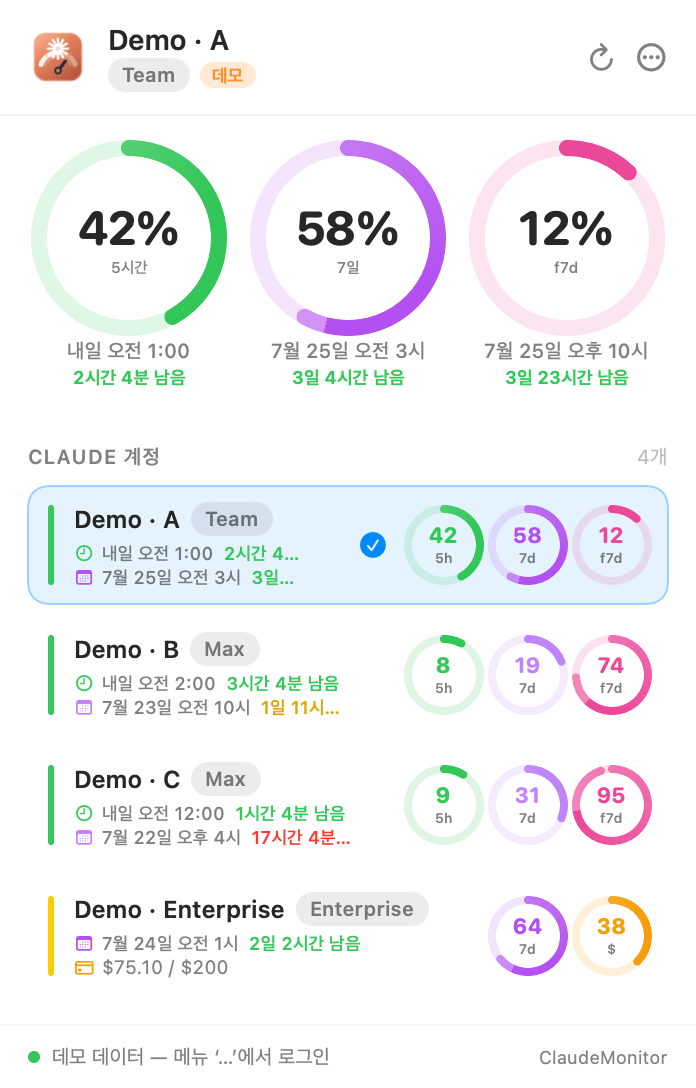
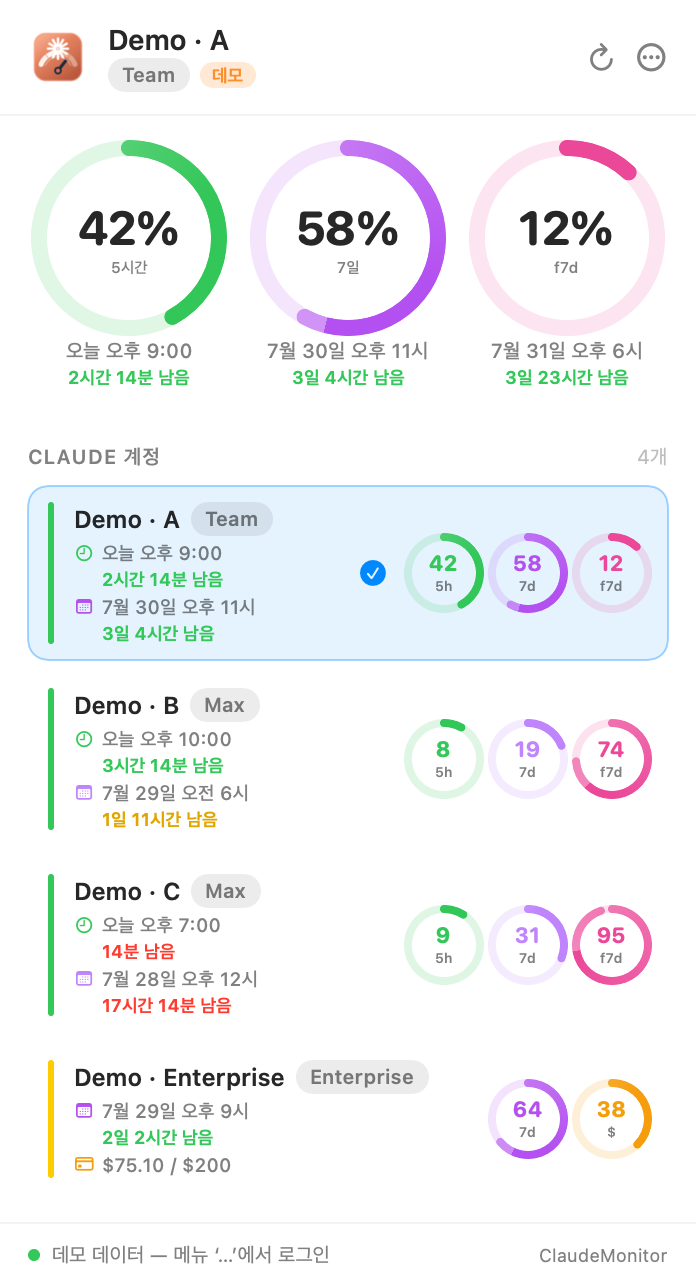
feat: make per-model weekly (Fable) usage optional, and stop truncating reset info in account rows
Two things made the popover hide the number people actually open it for.

The Fable ring (f7d) is always fetched and always drawn, even when it sits
at 0% — a third ring that eats the account row's width. It is now a setting
(`showModelLimits`, default on) with toggles in Settings and in the popover
`…` menu. Filtering lives in one pure function, `applyDisplayOptions`, that
every read path goes through (hero rings, account rows, the menu-bar image,
and the snapshot handed to UsageNotifier), so a hidden limit stops notifying
too. The cached response keeps its models, so switching it back on needs no
refetch.

Account rows printed "<reset time>  <time left>" on one line, which with
three rings truncated to "8월 1일 오후 7시 5…" — the remaining time, the
part that matters, was the part that got cut. The two now sit on separate
lines, and the row's left indicator stretches to the row height instead of
being pinned at 40 pt.

Adds DisplayOptionsTests for the filter, `CTM_MODELS=0|1` to force either
state in the preview renderer, and regenerates the README screenshots.

diff --git a/Sources/ClaudeMonitor/AppState.swift b/Sources/ClaudeMonitor/AppState.swift
@@ -50,6 +50,15 @@ final class AppState: ObservableObject {
         didSet { UserDefaults.standard.set(notificationThreshold, forKey: Keys.notificationThreshold) }
     }
 
+    /// 모델별 주간 한도(Fable 등) 표시 여부. 끄면 히어로 링·계정 행·알림에서 모두 빠진다.
+    /// (같은 usage 응답에 딸려오는 값이라 껐다 켜도 재조회가 필요 없다 — 캐시에는 그대로 남긴다)
+    @Published var showModelLimits: Bool {
+        didSet {
+            UserDefaults.standard.set(showModelLimits, forKey: Keys.showModelLimits)
+            rebuildMenuBarImage()
+        }
+    }
+
     /// 세션이 만료된 계정 (행에서 바로 다시 로그인할 수 있게 표시)
     @Published var expiredAccounts: Set<UUID> = []
 
@@ -87,6 +96,7 @@ final class AppState: ObservableObject {
         static let usageCachedAt = "usageCachedAt.v1"
         static let notificationsEnabled = "notificationsEnabled.v1"
         static let notificationThreshold = "notificationThreshold.v1"
+        static let showModelLimits = "showModelLimits.v1"
     }
 
     /// 팝오버를 열었을 때 이 간격 안이면 새로고침을 건너뛴다(연속 오픈으로 API 를 두드리지 않게).
@@ -104,17 +114,31 @@ final class AppState: ObservableObject {
     /// 활성 계정의 사용량 (개발 빌드의 데모 모드면 샘플)
     var activeUsage: AccountUsage? {
         #if DEBUG
-        if demoMode { return DemoData.usage(for: activeAccount?.id) }
+        if demoMode { return displayed(DemoData.usage(for: activeAccount?.id)) }
         #endif
         guard let id = activeAccount?.id else { return nil }
-        return usage[id]
+        return displayed(usage[id])
     }
 
     func usage(for account: Account) -> AccountUsage? {
         #if DEBUG
-        if demoMode { return DemoData.usage(for: account.id) }
+        if demoMode { return displayed(DemoData.usage(for: account.id)) }
         #endif
-        return usage[account.id]
+        return displayed(usage[account.id])
+    }
+
+    /// 표시 옵션을 반영한 사용량. UI 가 읽는 경로(히어로 링/계정 행/메뉴바)는 모두 여기를 거친다.
+    private func displayed(_ u: AccountUsage?) -> AccountUsage? {
+        Self.applyDisplayOptions(u, showModelLimits: showModelLimits)
+    }
+
+    /// 표시 옵션 적용(순수 함수 — 테스트에서 직접 검증한다).
+    /// `showModelLimits == false` 면 모델별 주간 한도(Fable 등)를 빼고 돌려준다.
+    nonisolated static func applyDisplayOptions(_ usage: AccountUsage?, showModelLimits: Bool) -> AccountUsage? {
+        guard let usage else { return nil }
+        guard !showModelLimits, !usage.models.isEmpty else { return usage }
+        return AccountUsage(fiveHour: usage.fiveHour, sevenDay: usage.sevenDay,
+                            models: [], extra: usage.extra)
     }
 
     // MARK: - Init
@@ -125,6 +149,8 @@ final class AppState: ObservableObject {
         self.notificationsEnabled = UserDefaults.standard.bool(forKey: Keys.notificationsEnabled)
         let threshold = UserDefaults.standard.integer(forKey: Keys.notificationThreshold)
         self.notificationThreshold = threshold == 0 ? 90 : threshold
+        // 기본값은 표시(기존 동작 유지). bool(forKey:) 는 키가 없을 때도 false 라 object 로 구분한다.
+        self.showModelLimits = (UserDefaults.standard.object(forKey: Keys.showModelLimits) as? Bool) ?? true
         let langRaw = UserDefaults.standard.string(forKey: Keys.language)
         let lang = langRaw.flatMap { AppLanguage(rawValue: $0) } ?? .system
         self.language = lang
@@ -342,7 +368,9 @@ final class AppState: ObservableObject {
         lastUpdated = Date()
         saveUsageCache()
         if notificationsEnabled {
-            UsageNotifier.evaluate(accounts: accounts, usage: usage,
+            // 숨긴 한도로는 알리지 않는다 (UI 에 없는 값으로 알림만 뜨면 영문을 알 수 없다).
+            let visible = usage.compactMapValues { displayed($0) }
+            UsageNotifier.evaluate(accounts: accounts, usage: visible,
                                    threshold: Double(notificationThreshold))
         }
         rebuildMenuBarImage()

diff --git a/Sources/ClaudeMonitor/Views/PopoverView.swift b/Sources/ClaudeMonitor/Views/PopoverView.swift
@@ -73,6 +73,10 @@ struct PopoverView: View {
                 Menu {
                     Button(L.s("Claude 계정 추가/로그인…", "Add Claude account / Log in…")) { WindowManager.shared.openLogin() }
                     Button(L.s("설정…", "Settings…")) { WindowManager.shared.openSettings() }
+                    Divider()
+                    // 설정을 열지 않고도 f7d 링을 켜고 끌 수 있게 (좁은 팝오버에서 자주 쓰는 옵션)
+                    Toggle(L.s("모델별 주간 사용량 (Fable)", "Per-model weekly usage (Fable)"),
+                           isOn: $state.showModelLimits)
                     #if DEBUG
                     Divider()
                     Toggle(L.s("데모 모드", "Demo mode"), isOn: Binding(
@@ -215,10 +219,11 @@ struct AccountRow: View {
 
     var body: some View {
         HStack(spacing: 10) {
-            // 좌측 컬러 인디케이터
+            // 좌측 컬러 인디케이터 (보조 줄 수에 따라 행 높이가 달라지므로 행 높이에 맞춰 늘린다)
             RoundedRectangle(cornerRadius: 2)
                 .fill(indicatorColor)
-                .frame(width: 3, height: 40)
+                .frame(width: 3)
+                .frame(minHeight: 40, maxHeight: .infinity)
 
             VStack(alignment: .leading, spacing: 3) {
                 HStack(spacing: 5) {
@@ -265,7 +270,7 @@ struct AccountRow: View {
         } else if usage == nil {
             Text(L.s("불러오는 중…", "Loading…")).font(.system(size: 10)).foregroundStyle(.secondary)
         } else {
-            VStack(alignment: .leading, spacing: 1) {
+            VStack(alignment: .leading, spacing: 3) {
                 if let five = usage?.fiveHour, let reset = five.resetsAt {
                     resetLine(icon: "clock", color: Theme.fiveHourColor(five.percentage),
                               text: TimeFmt.resetShort(reset), resetsAt: reset, longCycle: false)
@@ -281,27 +286,31 @@ struct AccountRow: View {
         }
     }
 
-    /// 보조 줄 한 항목: 아이콘 + 리셋 시각(회색) + 남은 시간(주기별 색상 규칙)
+    /// 보조 줄 한 항목: 아이콘 + 리셋 시각(회색) / 남은 시간(주기별 색상 규칙)
+    ///
+    /// 리셋 시각과 남은 시간을 한 줄에 붙이면 링 3개(5h/7d/f7d)가 폭을 먹는 좁은 행에서
+    /// 뒤쪽이 "…" 로 잘려 정작 중요한 "몇 시간 남음"이 안 보였다 → 줄을 나눠 둘 다 보이게 한다.
     @ViewBuilder
     private func resetLine(icon: String, color: Color, text: String, resetsAt: Date?, longCycle: Bool = false) -> some View {
-        HStack(spacing: 4) {
+        HStack(alignment: .top, spacing: 4) {
             Image(systemName: icon)
                 .font(.system(size: 8, weight: .semibold))
                 .foregroundStyle(color)
                 .frame(width: 10)
-            if let resetsAt {
-                TimelineView(.periodic(from: .now, by: 30)) { ctx in
-                    (Text(text + "  ").foregroundColor(.secondary)
-                        + Text(TimeFmt.remainingCompact(resetsAt, now: ctx.date) + L.s(" 남음", " left"))
-                            .foregroundColor(TimeFmt.remainingColor(resetsAt, longCycle: longCycle, now: ctx.date)))
-                        .font(.system(size: 9, weight: .medium))
-                        .lineLimit(1)
-                }
-            } else {
+                .padding(.top, 1)
+            VStack(alignment: .leading, spacing: 1) {
                 Text(text)
-                    .font(.system(size: 9.5))
+                    .font(.system(size: 9.5, weight: .medium))
                     .foregroundStyle(.secondary)
                     .lineLimit(1)
+                if let resetsAt {
+                    TimelineView(.periodic(from: .now, by: 30)) { ctx in
+                        Text(TimeFmt.remaining(resetsAt, now: ctx.date))
+                            .font(.system(size: 9, weight: .semibold))
+                            .foregroundStyle(TimeFmt.remainingColor(resetsAt, longCycle: longCycle, now: ctx.date))
+                            .lineLimit(1)
+                    }
+                }
             }
         }
     }

diff --git a/Tests/ClaudeMonitorTests/DisplayOptionsTests.swift b/Tests/ClaudeMonitorTests/DisplayOptionsTests.swift
@@ -1,0 +1,57 @@
+//
+//  DisplayOptionsTests.swift
+//  ClaudeMonitorTests
+//
+//  표시 옵션(모델별 주간 한도 on/off) 적용 규칙 검증.
+//  히어로 링·계정 행·메뉴바·알림이 모두 AppState.applyDisplayOptions 를 거치므로,
+//  이 순수 함수만 검증하면 표시 경로 전체가 함께 검증된다.
+//
+
+import XCTest
+@testable import ClaudeMonitor
+
+final class DisplayOptionsTests: XCTestCase {
+
+    private func sample(models: [ModelLimit]) -> AccountUsage {
+        AccountUsage(
+            fiveHour: LimitUsage(percentage: 50, resetsAt: Date(timeIntervalSince1970: 1_700_000_000)),
+            sevenDay: LimitUsage(percentage: 7, resetsAt: Date(timeIntervalSince1970: 1_700_500_000)),
+            models: models,
+            extra: ExtraUsage(enabled: true, used: 44.62, limit: 75, currencyCode: "USD"))
+    }
+
+    private var fable: ModelLimit {
+        ModelLimit(name: "Fable",
+                   usage: LimitUsage(percentage: 12, resetsAt: Date(timeIntervalSince1970: 1_700_900_000)))
+    }
+
+    /// 켜져 있으면 응답 그대로 (껐다 켜도 재조회 없이 같은 값이 돌아와야 한다)
+    func testKeepsModelsWhenEnabled() throws {
+        let usage = sample(models: [fable])
+        let out = try XCTUnwrap(AppState.applyDisplayOptions(usage, showModelLimits: true))
+        XCTAssertEqual(out, usage)
+        XCTAssertEqual(out.models.count, 1)
+    }
+
+    /// 꺼져 있으면 모델별 한도만 빠지고 5시간/7일/추가 사용량은 그대로다
+    func testStripsModelsWhenDisabled() throws {
+        let usage = sample(models: [fable])
+        let out = try XCTUnwrap(AppState.applyDisplayOptions(usage, showModelLimits: false))
+        XCTAssertTrue(out.models.isEmpty)
+        XCTAssertEqual(out.fiveHour, usage.fiveHour)
+        XCTAssertEqual(out.sevenDay, usage.sevenDay)
+        XCTAssertEqual(out.extra, usage.extra)
+    }
+
+    /// 모델 한도가 없으면 어느 설정에서도 원본 그대로
+    func testNoModelsIsUnchanged() throws {
+        let usage = sample(models: [])
+        XCTAssertEqual(try XCTUnwrap(AppState.applyDisplayOptions(usage, showModelLimits: false)), usage)
+        XCTAssertEqual(try XCTUnwrap(AppState.applyDisplayOptions(usage, showModelLimits: true)), usage)
+    }
+
+    func testNilStaysNil() {
+        XCTAssertNil(AppState.applyDisplayOptions(nil, showModelLimits: false))
+        XCTAssertNil(AppState.applyDisplayOptions(nil, showModelLimits: true))
+    }
+}

diff --git a/Sources/ClaudeMonitor/Views/SettingsView.swift b/Sources/ClaudeMonitor/Views/SettingsView.swift
@@ -83,6 +83,15 @@ struct SettingsView: View {
                     if let notificationError {
                         Text(notificationError).font(.caption).foregroundStyle(.orange)
                     }
+
+                    Divider()
+
+                    Toggle(L.s("모델별 주간 사용량 조회 (Fable)", "Track per-model weekly usage (Fable)"),
+                           isOn: $state.showModelLimits)
+                    Text(L.s("끄면 Fable 등 모델별 주간 한도(f7d) 링과 알림을 표시하지 않습니다. 5시간·7일 사용량만 봅니다.",
+                             "When off, per-model weekly rings (f7d) and their notifications are hidden — only 5-hour / 7-day usage is shown."))
+                        .font(.caption).foregroundStyle(.secondary)
+                        .fixedSize(horizontal: false, vertical: true)
                 }
                 .padding(6)
                 .frame(maxWidth: .infinity, alignment: .leading)

diff --git a/Sources/ClaudeMonitor/PreviewRenderer.swift b/Sources/ClaudeMonitor/PreviewRenderer.swift
@@ -18,6 +18,10 @@ enum PreviewRenderer {
         // 언어 강제 (CTM_LANG=en|ko)
         if let lng = ProcessInfo.processInfo.environment["CTM_LANG"],
            let al = AppLanguage(rawValue: lng) { state.language = al }
+        // 모델별 주간 한도(f7d) 표시 강제 (CTM_MODELS=0|1) — 두 레이아웃을 모두 캡처하기 위해
+        if let m = ProcessInfo.processInfo.environment["CTM_MODELS"] {
+            state.showModelLimits = (m as NSString).boolValue
+        }
         // 활성 계정을 5h+7d 둘 다 있는 첫 계정으로 (듀얼 링이 보이도록)
         if let first = state.accounts.first { state.activeAccountId = first.id }
         // ScrollView/Menu 는 ImageRenderer 가 그리지 못하므로, 같은 구성요소를

diff --git a/CLAUDE.md b/CLAUDE.md
@@ -46,6 +46,8 @@ The scripts assemble the `.app` by hand (Info.plist with `LSUIElement=YES`) and 
 ## Design rules
 
 - Hero = active account's 5h + 7d + each per-model weekly limit as ring gauges (each with reset time + remaining below); ring diameter shrinks to fit when there are 3+. Model rings use the short tag `<first-letter>7d` (e.g. Fable → `f7d`) as caption. Account rows show the same set as mini rings: 5h(green)/7d(purple)/model(e.g. Fable pink). `ModelLimit.shortTag` produces the tag; `Theme.modelColor` the color.
+- **Per-model weekly limits are optional** (`AppState.showModelLimits`, default on, key `showModelLimits.v1`; toggles in Settings and in the popover `…` menu). Filtering happens in exactly one place — the pure `AppState.applyDisplayOptions(_:showModelLimits:)`, which every read path (`activeUsage`, `usage(for:)`, and the snapshot handed to `UsageNotifier`) goes through, so a hidden limit also stops notifying. The cached response keeps its models, so toggling back on needs no refetch. `CTM_MODELS=0|1` forces the state in the preview renderer (DEBUG).
+- Account rows put the reset time and the remaining time on **separate lines** (`AccountRow.resetLine`). On one line the tail was truncated to `…` whenever three rings claimed the row's width, hiding exactly the number people open the app for; the row's left indicator therefore stretches to the row height instead of a fixed 40 pt.
 - Remaining-time color — `TimeFmt.remainingColor(_, longCycle:)`: 5h → red <1h else green; 7d → red <1d, gold(`0xE0A500`) <2d, else green.
 - All user-facing strings go through `L.s(...)`; `TimeFmt` is locale-aware; language picker in Settings (System/EN/KO).
 - Settings also holds **launch at login** (`SMAppService.mainApp`, only functional from the `.app` bundle — the toggle disables itself for raw binaries) and **threshold notifications** (`UsageNotifier`, default 90%, one notification per limit per reset cycle; the key includes `resets_at` so a new cycle can alert again). Both are off by default and notifications ask for authorization when switched on.

diff --git a/README.md b/README.md
@@ -29,6 +29,8 @@
 
 - 📊 Menu-bar label with the active account's 5h / 7d usage in color
 - 🎯 Popover: ring gauges for 5-hour / 7-day / per-model weekly (e.g. `f7d` for Fable) with reset time and remaining time, plus an Extra Usage card
+- 🔕 Per-model weekly usage (Fable) is optional — turn the `f7d` rings and their notifications off from Settings or the `…` menu
+- 📅 Account rows print the reset date and the time left on separate lines, so neither gets truncated
 - 👥 Multi-account / multi-org: every organization reachable by one session key is registered automatically; switch with a tap
 - ⏱ Remaining-time colors: 5h → red under 1 hour; 7d → red under 1 day, gold under 2 days, else green
 - 🌐 Built-in browser (WKWebView) login auto-extracts the session key; manual paste also supported
